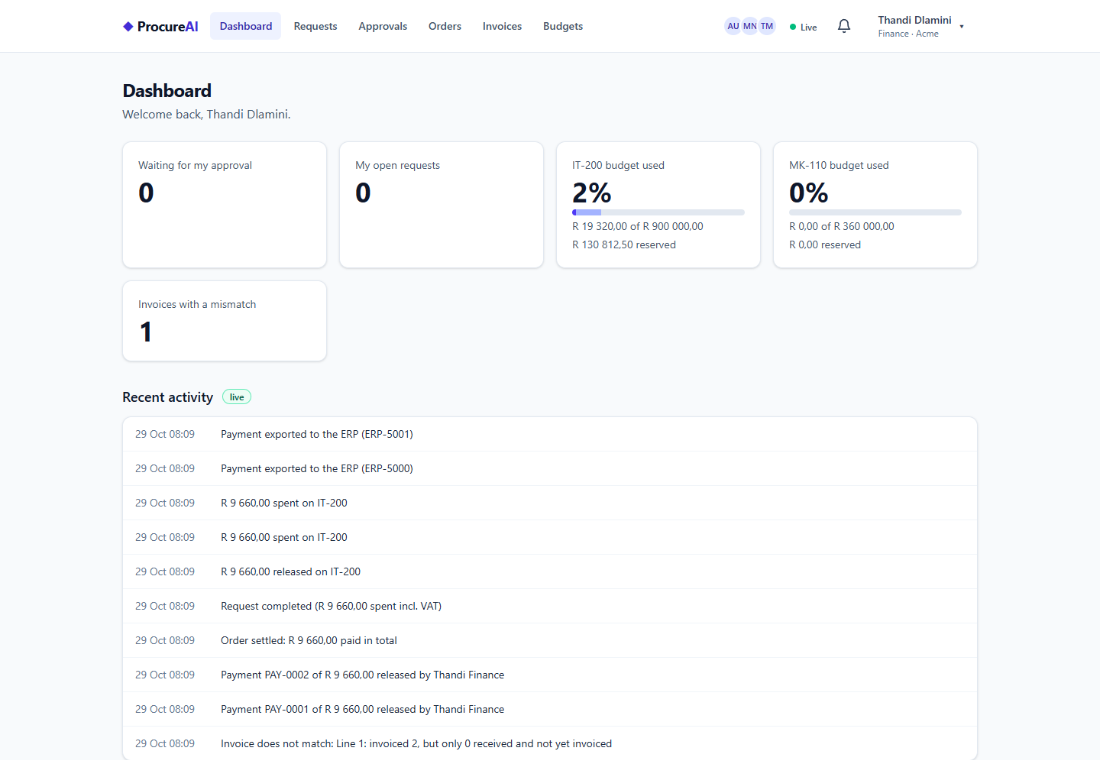
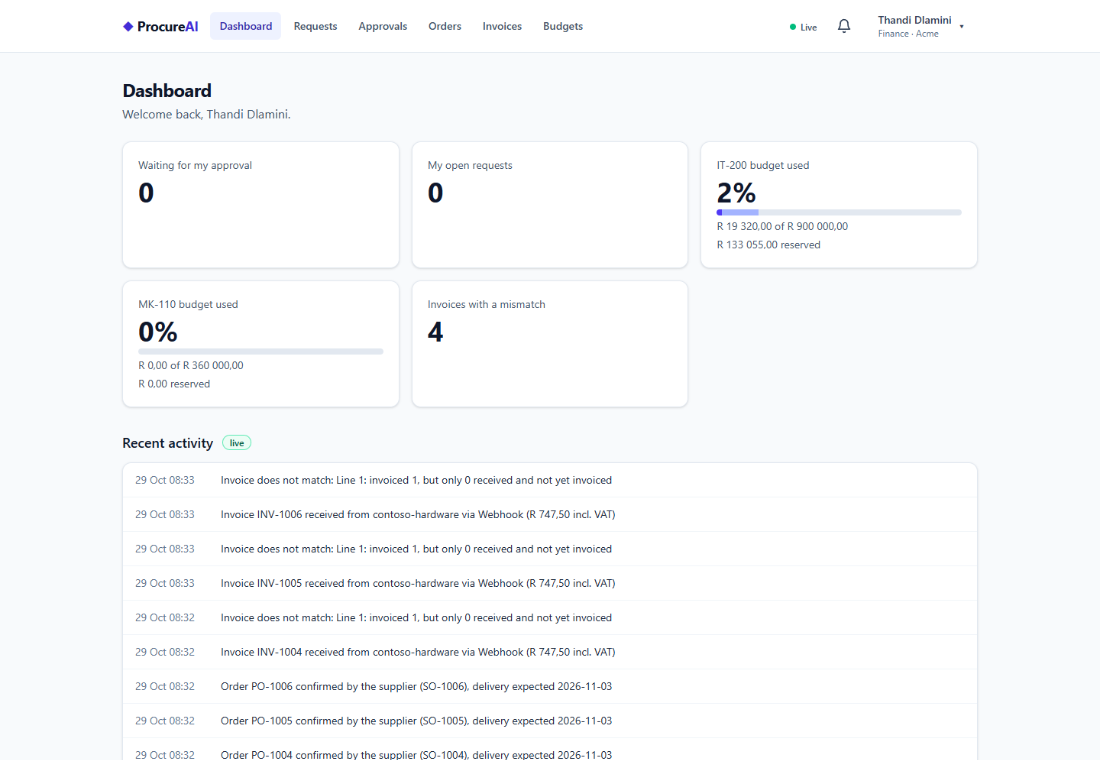
fix(web): phone nav fades at its right edge and scrolls the active link into view; keepRand ignores letters before an R; dashboard tiles go three to a row unless there are four; README shows the dashboard once (plan 04 Task 9b fix round 1)

diff --git a/src/Web/procure-ai-web/src/app/features/shell/shell.spec.ts b/src/Web/procure-ai-web/src/app/features/shell/shell.spec.ts
@@ -1,6 +1,6 @@
 import { signal } from '@angular/core';
 import { TestBed } from '@angular/core/testing';
-import { provideRouter } from '@angular/router';
+import { provideRouter, Router } from '@angular/router';
 import { AuthStore } from '../../core/auth/auth.store';
 import { ApprovalsStore } from '../approvals/approvals.store';
 import { LiveConnection, LiveState } from '../../core/live/live-connection';
@@ -93,6 +93,84 @@ describe('Shell header', () => {
     const el = await render();
     const link = [...el.querySelectorAll('nav a')].find((a) => text(a)?.startsWith('Approvals'))!;
     expect(text(link)).toBe('Approvals');
+  });
+
+
+  it('scrolls the active nav link into view after a navigation (the phone nav scrolls sideways)', async () => {
+    signIn(['requests.read', 'orders.read', 'invoices.read', 'budgets.read']);
+    const scrolled: string[] = [];
+    const original = HTMLElement.prototype.scrollIntoView;
+    HTMLElement.prototype.scrollIntoView = function (this: Element, options?: boolean | ScrollIntoViewOptions) {
+      scrolled.push(this.textContent?.trim() + '|' + JSON.stringify(options));
+    };
+    try {
+      const fixture = TestBed.createComponent(Shell);
+      fixture.detectChanges();
+      TestBed.inject(Router).resetConfig([{ path: 'app/budgets', children: [] }]);
+      await TestBed.inject(Router).navigateByUrl('/app/budgets');
+      fixture.detectChanges();
+      for (let i = 0; i < 40 && scrolled.length === 0; i++) {
+        await new Promise((resolve) => setTimeout(resolve, 25));
+      }
+      expect(scrolled).toContain('Budgets|{"inline":"center","block":"nearest"}');
+    } finally {
+      HTMLElement.prototype.scrollIntoView = original;
+    }
+  });
+
+  it('the nav fades at its right edge only while it overflows', async () => {
+    signIn(['requests.read']);
+    const fixture = TestBed.createComponent(Shell);
+    fixture.detectChanges();
+    const nav = (fixture.nativeElement as HTMLElement).querySelector('nav')!;
+    expect(nav.classList.contains('nav-fade-end')).toBe(false);
+    Object.defineProperty(nav, 'scrollWidth', { configurable: true, value: 600 });
+    Object.defineProperty(nav, 'clientWidth', { configurable: true, value: 358 });
+    nav.dispatchEvent(new Event('scroll'));
+    fixture.detectChanges();
+    expect(nav.classList.contains('nav-fade-end')).toBe(true);
+    Object.defineProperty(nav, 'scrollLeft', { configurable: true, value: 242 });
+    nav.dispatchEvent(new Event('scroll'));
+    fixture.detectChanges();
+    expect(nav.classList.contains('nav-fade-end')).toBe(false);
+  });
+
+  it('scrolls the active nav link into view after a navigation (the phone nav scrolls sideways)', async () => {
+    signIn(['requests.read', 'orders.read', 'invoices.read', 'budgets.read']);
+    const scrolled: string[] = [];
+    const original = HTMLElement.prototype.scrollIntoView;
+    HTMLElement.prototype.scrollIntoView = function (this: Element, options?: boolean | ScrollIntoViewOptions) {
+      scrolled.push(this.textContent?.trim() + '|' + JSON.stringify(options));
+    };
+    try {
+      const fixture = TestBed.createComponent(Shell);
+      fixture.detectChanges();
+      const router = TestBed.inject(Router);
+      router.resetConfig([{ path: 'app/budgets', children: [] }]);
+      await router.navigateByUrl('/app/budgets');
+      fixture.detectChanges();
+      await new Promise((resolve) => setTimeout(resolve, 30));
+      expect(scrolled).toContain('Budgets|{"inline":"center","block":"nearest"}');
+    } finally {
+      HTMLElement.prototype.scrollIntoView = original;
+    }
+  });
+
+  it('the nav fades at its right edge only while it overflows', async () => {
+    signIn(['requests.read']);
+    const fixture = TestBed.createComponent(Shell);
+    fixture.detectChanges();
+    const nav = (fixture.nativeElement as HTMLElement).querySelector('nav')!;
+    expect(nav.classList.contains('nav-fade-end')).toBe(false);
+    Object.defineProperty(nav, 'scrollWidth', { configurable: true, value: 600 });
+    Object.defineProperty(nav, 'clientWidth', { configurable: true, value: 358 });
+    nav.dispatchEvent(new Event('scroll'));
+    fixture.detectChanges();
+    expect(nav.classList.contains('nav-fade-end')).toBe(true);
+    Object.defineProperty(nav, 'scrollLeft', { configurable: true, value: 242 });
+    nav.dispatchEvent(new Event('scroll'));
+    fixture.detectChanges();
+    expect(nav.classList.contains('nav-fade-end')).toBe(false);
   });
 
   it('signed out shows only Log in and Register and no live widgets', async () => {

diff --git a/src/Web/procure-ai-web/src/app/features/shell/shell.ts b/src/Web/procure-ai-web/src/app/features/shell/shell.ts
@@ -1,4 +1,5 @@
-import { Component, computed, effect, inject, untracked } from '@angular/core';
+import { Component, computed, effect, ElementRef, inject, signal, untracked, viewChild } from '@angular/core';
+import { takeUntilDestroyed, toObservable } from '@angular/core/rxjs-interop';
 import { Menu, MenuContent, MenuItem, MenuTrigger } from '@angular/aria/menu';
 import { RouterLink, RouterLinkActive, RouterOutlet } from '@angular/router';
 import { ApprovalsStore } from '../approvals/approvals.store';
@@ -22,6 +23,7 @@ interface NavLink {
  */
 @Component({
   selector: 'app-shell',
+  host: { '(window:resize)': 'updateFade()' },
   imports: [RouterLink, RouterLinkActive, RouterOutlet, Menu, MenuContent, MenuItem, MenuTrigger, BellMenu, LiveIndicator, OnlineUsers],
   template: `
     <a
@@ -37,16 +39,17 @@ interface NavLink {
           <span aria-hidden="true" class="text-indigo-700">&#9670;</span> Procure<span class="text-indigo-700">AI</span>
         </a>
 
-        <nav aria-label="Main" class="order-3 -mx-4 flex w-[calc(100%+2rem)] items-center gap-1 overflow-x-auto px-4 py-1 lg:order-none lg:mx-0 lg:w-auto lg:flex-wrap lg:overflow-visible lg:px-0">
+        <nav #nav aria-label="Main" [class.nav-fade-end]="fadeEnd()" (scroll)="updateFade()" class="order-3 -mx-4 flex w-[calc(100%+2rem)] items-center gap-1 overflow-x-auto px-4 py-1 lg:order-none lg:mx-0 lg:w-auto lg:flex-wrap lg:overflow-visible lg:px-0">
           @if (!auth.isLoggedIn()) {
             <a routerLink="/" routerLinkActive="active" [routerLinkActiveOptions]="{ exact: true }" class="nav-link">Welcome</a>
           }
           @if (auth.isLoggedIn()) {
-            <a routerLink="/app/dashboard" routerLinkActive="active" class="nav-link">Dashboard</a>
+            <a routerLink="/app/dashboard" routerLinkActive="active" (isActiveChange)="$event && revealActive()" class="nav-link">Dashboard</a>
             @for (link of links(); track link.path) {
               <a
                 [routerLink]="'/app/' + link.path"
                 routerLinkActive="active"
+                (isActiveChange)="$event && revealActive()"
                 class="nav-link"
                 [attr.aria-label]="link.count ? link.label + ', ' + link.count + ' waiting' : null"
               >
@@ -110,6 +113,9 @@ interface NavLink {
   `,
 })
 export class Shell {
+  private readonly nav = viewChild<ElementRef<HTMLElement>>('nav');
+  /** True while more of the phone nav lies off to the right: the nav then fades out at its right edge. */
+  protected readonly fadeEnd = signal(false);
   protected readonly auth = inject(AuthStore);
   protected readonly live = inject(LiveConnection);
   private readonly notifications = inject(NotificationsStore);
@@ -135,6 +141,9 @@ export class Shell {
   });
 
   constructor() {
+    // On phones the nav scrolls sideways: the active link is brought into view when it becomes active (isActiveChange on each link) and when the links appear.
+    toObservable(this.links).pipe(takeUntilDestroyed()).subscribe(() => this.revealActive());
+
     // Fill the bell and the approvals count once somebody is signed in (the connection itself is started by the app initializer).
     effect(() => {
       if (this.auth.isLoggedIn()) {
@@ -147,6 +156,19 @@ export class Shell {
         });
       }
     });
+  }
+
+  /** Scrolls the active nav link into view (after the router has marked it) and refreshes the fade. */
+  protected revealActive(): void {
+    setTimeout(() => {
+      this.nav()?.nativeElement.querySelector('a.active')?.scrollIntoView?.({ inline: 'center', block: 'nearest' });
+      this.updateFade();
+    });
+  }
+
+  protected updateFade(): void {
+    const el = this.nav()?.nativeElement;
+    this.fadeEnd.set(!!el && el.scrollLeft + el.clientWidth < el.scrollWidth - 1);
   }
 
   protected onMenuItem(value: string | undefined): void {

diff --git a/src/Web/procure-ai-web/src/app/features/dashboard/dashboard.page.ts b/src/Web/procure-ai-web/src/app/features/dashboard/dashboard.page.ts
@@ -24,7 +24,7 @@ const NAMES_SHOWN = 3;
         <p class="mt-1 text-slate-600">Welcome back, {{ user.name }}.</p>
       }
 
-      <div class="mt-6 grid gap-4 sm:grid-cols-2 lg:grid-cols-[repeat(auto-fit,minmax(15rem,1fr))]">
+      <div [class]="tilesClass()" class="mt-6 grid gap-4 sm:grid-cols-2">
         @if (store.tiles().approvals) {
           <div data-tile="approvals" class="card flex flex-col gap-1">
             <a routerLink="/app/approvals" class="text-sm text-slate-600 hover:underline">Waiting for my approval</a>
@@ -132,6 +132,13 @@ export class DashboardPage implements OnInit {
   protected readonly store = inject(DashboardStore);
   private readonly presence = inject(PresenceStore);
   private readonly now = signal(Date.now());
+
+  /** Four tiles fill a row at lg; any other number goes three to a row, so no tile is left alone on the last row. */
+  protected readonly tilesClass = computed(() => {
+    const t = this.store.tiles();
+    const count = (t.approvals ? 1 : 0) + (t.myOpen ? 1 : 0) + (t.budgets ? Math.max(1, this.store.budgetTiles().length) : 0) + (t.mismatched ? 1 : 0);
+    return count === 4 ? 'lg:grid-cols-4' : 'lg:grid-cols-3';
+  });
 
   /** The first three names online (me excluded) and how many more there are. */
   protected readonly online = computed(() => {

diff --git a/src/Web/procure-ai-web/src/app/features/dashboard/dashboard.page.spec.ts b/src/Web/procure-ai-web/src/app/features/dashboard/dashboard.page.spec.ts
@@ -29,6 +29,18 @@ describe('DashboardPage', () => {
     expect(text(el)).toContain('Recent activity');
   });
 
+  it('five tiles go three to a row at lg, so none is left alone on the last row', async () => {
+    const { el } = await render(['requests.read', 'requests.approve', 'budgets.read', 'invoices.read'], ['IT-200', 'OPS-100']);
+    expect(el.querySelectorAll('[data-tile]').length).toBe(5);
+    expect(el.querySelector('[data-tile="approvals"]')!.parentElement!.className).toContain('lg:grid-cols-3');
+  });
+
+  it('four tiles go four to a row at lg', async () => {
+    const { el } = await render(['requests.read', 'requests.approve', 'budgets.read', 'invoices.read']);
+    expect(el.querySelectorAll('[data-tile]').length).toBe(4);
+    expect(el.querySelector('[data-tile="approvals"]')!.parentElement!.className).toContain('lg:grid-cols-4');
+  });
+
   it('a manager sees every tile with its numbers', async () => {
     const { el } = await render(['requests.read', 'requests.approve', 'budgets.read', 'invoices.read']);
     expect(text(el.querySelector('[data-tile="approvals"]'))).toContain('3');

diff --git a/src/Web/procure-ai-web/src/app/features/invoices/invoice-detail.page.ts b/src/Web/procure-ai-web/src/app/features/invoices/invoice-detail.page.ts
@@ -1,4 +1,3 @@
-import { KeepRandPipe } from '../../core/ui/money.pipe';
 import { DatePipe } from '@angular/common';
 import { Component, computed, effect, inject, input, signal, untracked } from '@angular/core';
 import { form, FormField, submit, validate } from '@angular/forms/signals';
@@ -9,6 +8,7 @@ import { PayLineBody } from '../../api/invoicing/models/pay-line-body';
 import { AuthStore } from '../../core/auth/auth.store';
 import { ReferenceDataStore } from '../../core/reference/reference-data.store';
 import { BusyButton } from '../../core/ui/busy-button';
+import { KeepRandPipe } from '../../core/ui/money.pipe';
 import { StatusBadge } from '../requests/status-badge';
 import { VAT_RATE_PERCENT } from '../requests/request-lines';
 import { InvoiceDetailStore } from './invoice-detail.store';

diff --git a/src/Web/procure-ai-web/src/app/features/requests/workflow-timeline.ts b/src/Web/procure-ai-web/src/app/features/requests/workflow-timeline.ts
@@ -1,4 +1,3 @@
-import { KeepRandPipe } from '../../core/ui/money.pipe';
 import { Component, input } from '@angular/core';
 import { ApprovalChainDto } from '../../api/approvals/models/approval-chain-dto';
 import { ApprovalStepDto } from '../../api/approvals/models/approval-step-dto';
@@ -6,6 +5,7 @@ import { BusinessEventDto } from '../../api/audit/models/business-event-dto';
 import { InvoiceDto } from '../../api/invoicing/models/invoice-dto';
 import { PurchaseOrderDto } from '../../api/purchasing/models/purchase-order-dto';
 import { RequestDto } from '../../api/requests/models/request-dto';
+import { KeepRandPipe } from '../../core/ui/money.pipe';
 
 /**
  * done = happened, active = happening now, warn = needs attention (moved up, retrying, mismatch), failed = ended badly,

diff --git a/src/Web/procure-ai-web/src/app/features/requests/request-detail.page.ts b/src/Web/procure-ai-web/src/app/features/requests/request-detail.page.ts
@@ -1,4 +1,3 @@
-import { KeepRandPipe } from '../../core/ui/money.pipe';
 import { Component, computed, effect, inject, input, untracked } from '@angular/core';
 import { Title } from '@angular/platform-browser';
 import { RouterLink } from '@angular/router';
@@ -6,6 +5,7 @@ import { RequestDto } from '../../api/requests/models/request-dto';
 import { PresenceStore } from '../../core/live/presence.store';
 import { BusyButton } from '../../core/ui/busy-button';
 import { ConfirmDialog } from '../../core/ui/confirm-dialog';
+import { KeepRandPipe } from '../../core/ui/money.pipe';
 import { AuditTrail } from './audit-trail';
 import { RequestDetailStore } from './request-detail.store';
 import { StatusBadge } from './status-badge';

diff --git a/src/Web/procure-ai-web/src/app/features/approvals/approvals.page.ts b/src/Web/procure-ai-web/src/app/features/approvals/approvals.page.ts
@@ -1,10 +1,10 @@
-import { KeepRandPipe } from '../../core/ui/money.pipe';
 import { NgTemplateOutlet } from '@angular/common';
 import { Component, DestroyRef, effect, inject, OnInit, signal } from '@angular/core';
 import { form, FormField, maxLength, validate } from '@angular/forms/signals';
 import { RouterLink } from '@angular/router';
 import { ApprovalStepDto } from '../../api/approvals/models/approval-step-dto';
 import { BusyButton } from '../../core/ui/busy-button';
+import { KeepRandPipe } from '../../core/ui/money.pipe';
 import { Pager } from '../../core/ui/pager';
 import { ApprovalsStore } from './approvals.store';
 import { escalatesIn, waitedFor } from './inbox-time';

diff --git a/src/Web/procure-ai-web/src/app/core/ui/money.pipe.spec.ts b/src/Web/procure-ai-web/src/app/core/ui/money.pipe.spec.ts
@@ -41,6 +41,14 @@ describe('keepRand', () => {
     expect(text).toBe('R\u00a086 940,00 reserved on IT-200, R\u00a05,00 left (R is a letter)');
   });
 
+  it('leaves letters before an R alone (PR 12, DR 5)', () => {
+    expect(keepRand('See PR 12 and DR 5, then R 5,00')).toBe('See PR 12 and DR 5, then R 5,00');
+  });
+
+  it('leaves letters before an R alone (PR 12, DR 5)', () => {
+    expect(keepRand('See PR 12 and DR 5, then R 5,00')).toBe('See PR 12 and DR 5, then R 5,00');
+  });
+
   it('leaves a sentence without amounts alone, and copes with nothing', () => {
     expect(keepRand('Approved by Maria')).toBe('Approved by Maria');
     expect(keepRand(null)).toBe('');

diff --git a/src/Web/procure-ai-web/src/app/features/orders/receipt-form.ts b/src/Web/procure-ai-web/src/app/features/orders/receipt-form.ts
@@ -1,8 +1,8 @@
-import { KeepRandPipe } from '../../core/ui/money.pipe';
 import { Component, computed, effect, input, output, signal, untracked } from '@angular/core';
 import { applyEach, form, FormField, maxLength, submit, validate } from '@angular/forms/signals';
 import { PurchaseOrderDto } from '../../api/purchasing/models/purchase-order-dto';
 import { BusyButton } from '../../core/ui/busy-button';
+import { KeepRandPipe } from '../../core/ui/money.pipe';
 import { ReceiptInput } from './order-detail.store';
 
 interface Row {

diff --git a/src/Web/procure-ai-web/src/app/features/requests/audit-trail.ts b/src/Web/procure-ai-web/src/app/features/requests/audit-trail.ts
@@ -1,6 +1,6 @@
-import { KeepRandPipe } from '../../core/ui/money.pipe';
 import { Component, computed, input } from '@angular/core';
 import { BusinessEventDto } from '../../api/audit/models/business-event-dto';
+import { KeepRandPipe } from '../../core/ui/money.pipe';
 import { formatWhen } from './workflow-timeline';
 
 /** The business history of one request, newest first: when, what happened (the sentence Audit wrote), and the event type. */

diff --git a/src/Web/procure-ai-web/src/app/core/ui/money.pipe.ts b/src/Web/procure-ai-web/src/app/core/ui/money.pipe.ts
@@ -23,7 +23,7 @@ export class RandPipe implements PipeTransform {
  * a no-break one, so a sentence never wraps between the R and its number.
  */
 export function keepRand(text: string | null | undefined): string {
-  return (text ?? '').replace(/R (?=\d)/g, 'R\u00a0');
+  return (text ?? '').replace(/\bR (?=\d)/g, 'R\u00a0');
 }
 
 /** `{{ sentence | keepRand }}`: a server sentence with its amounts kept in one piece. */
